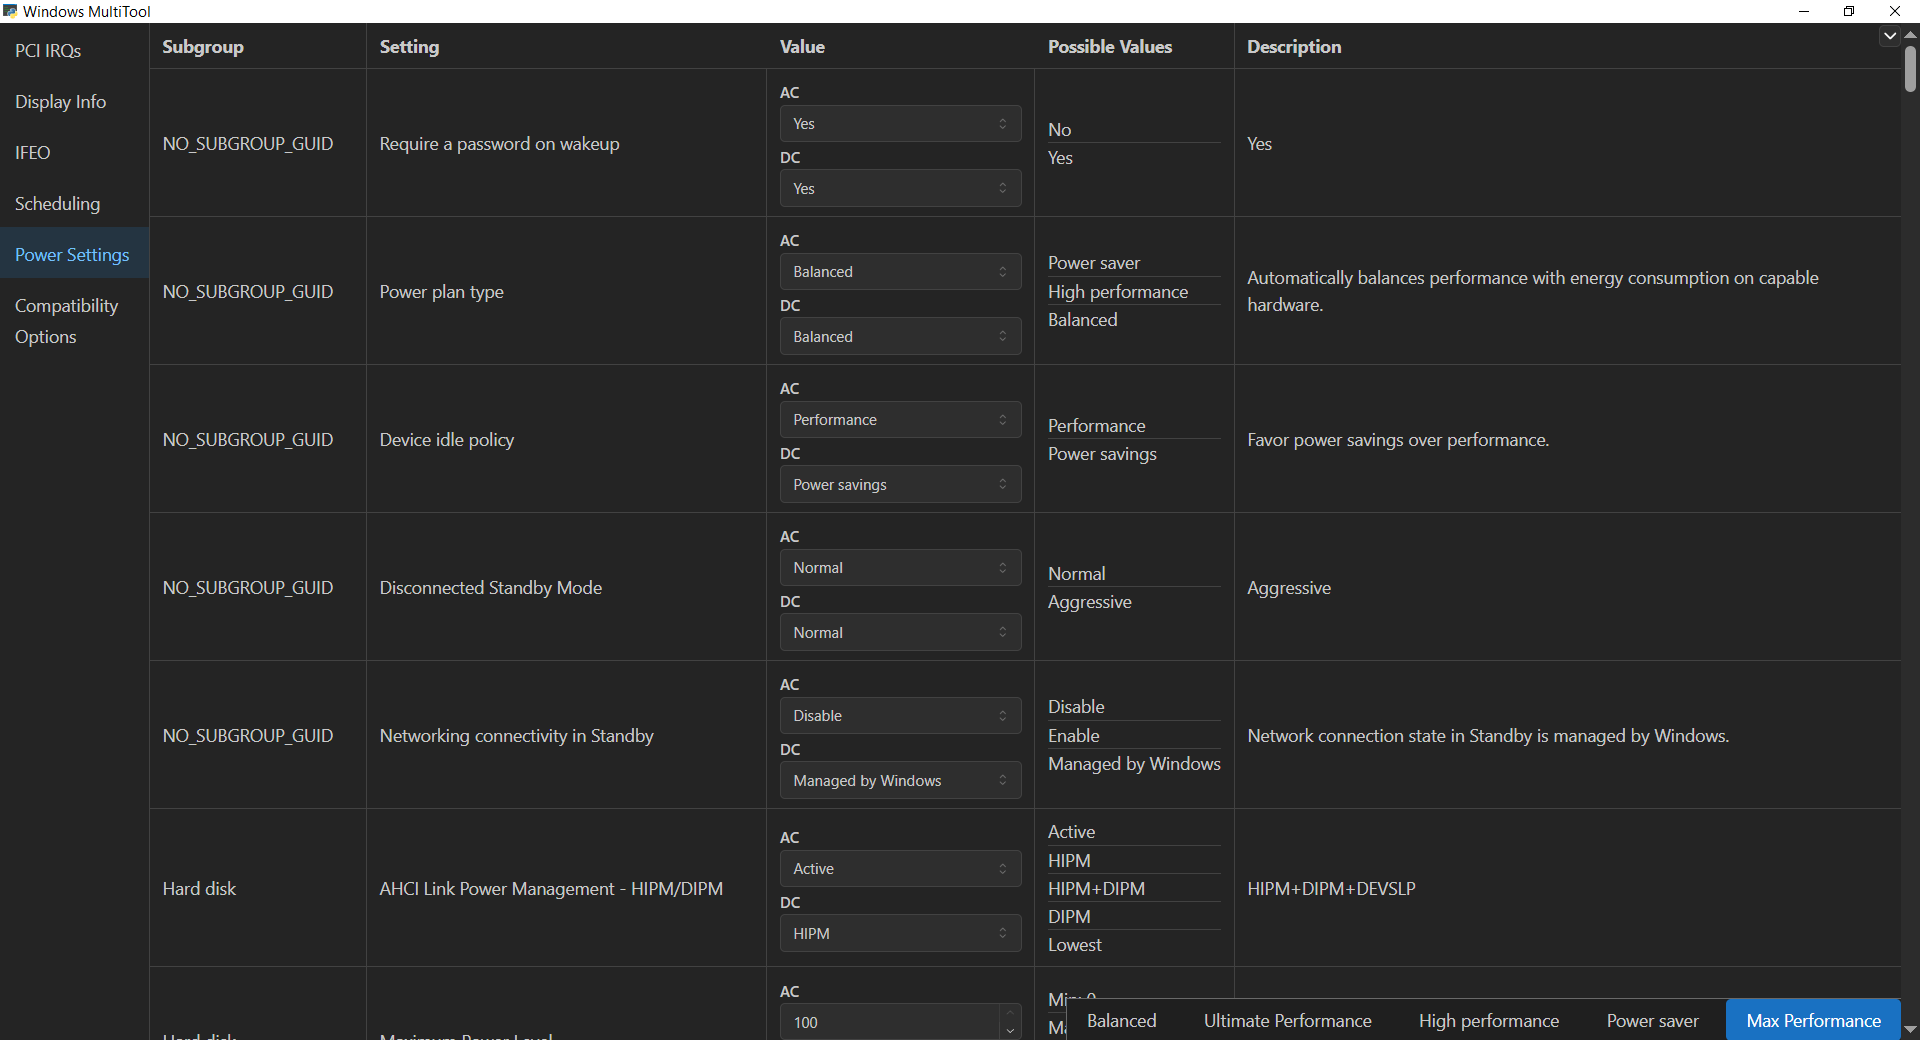
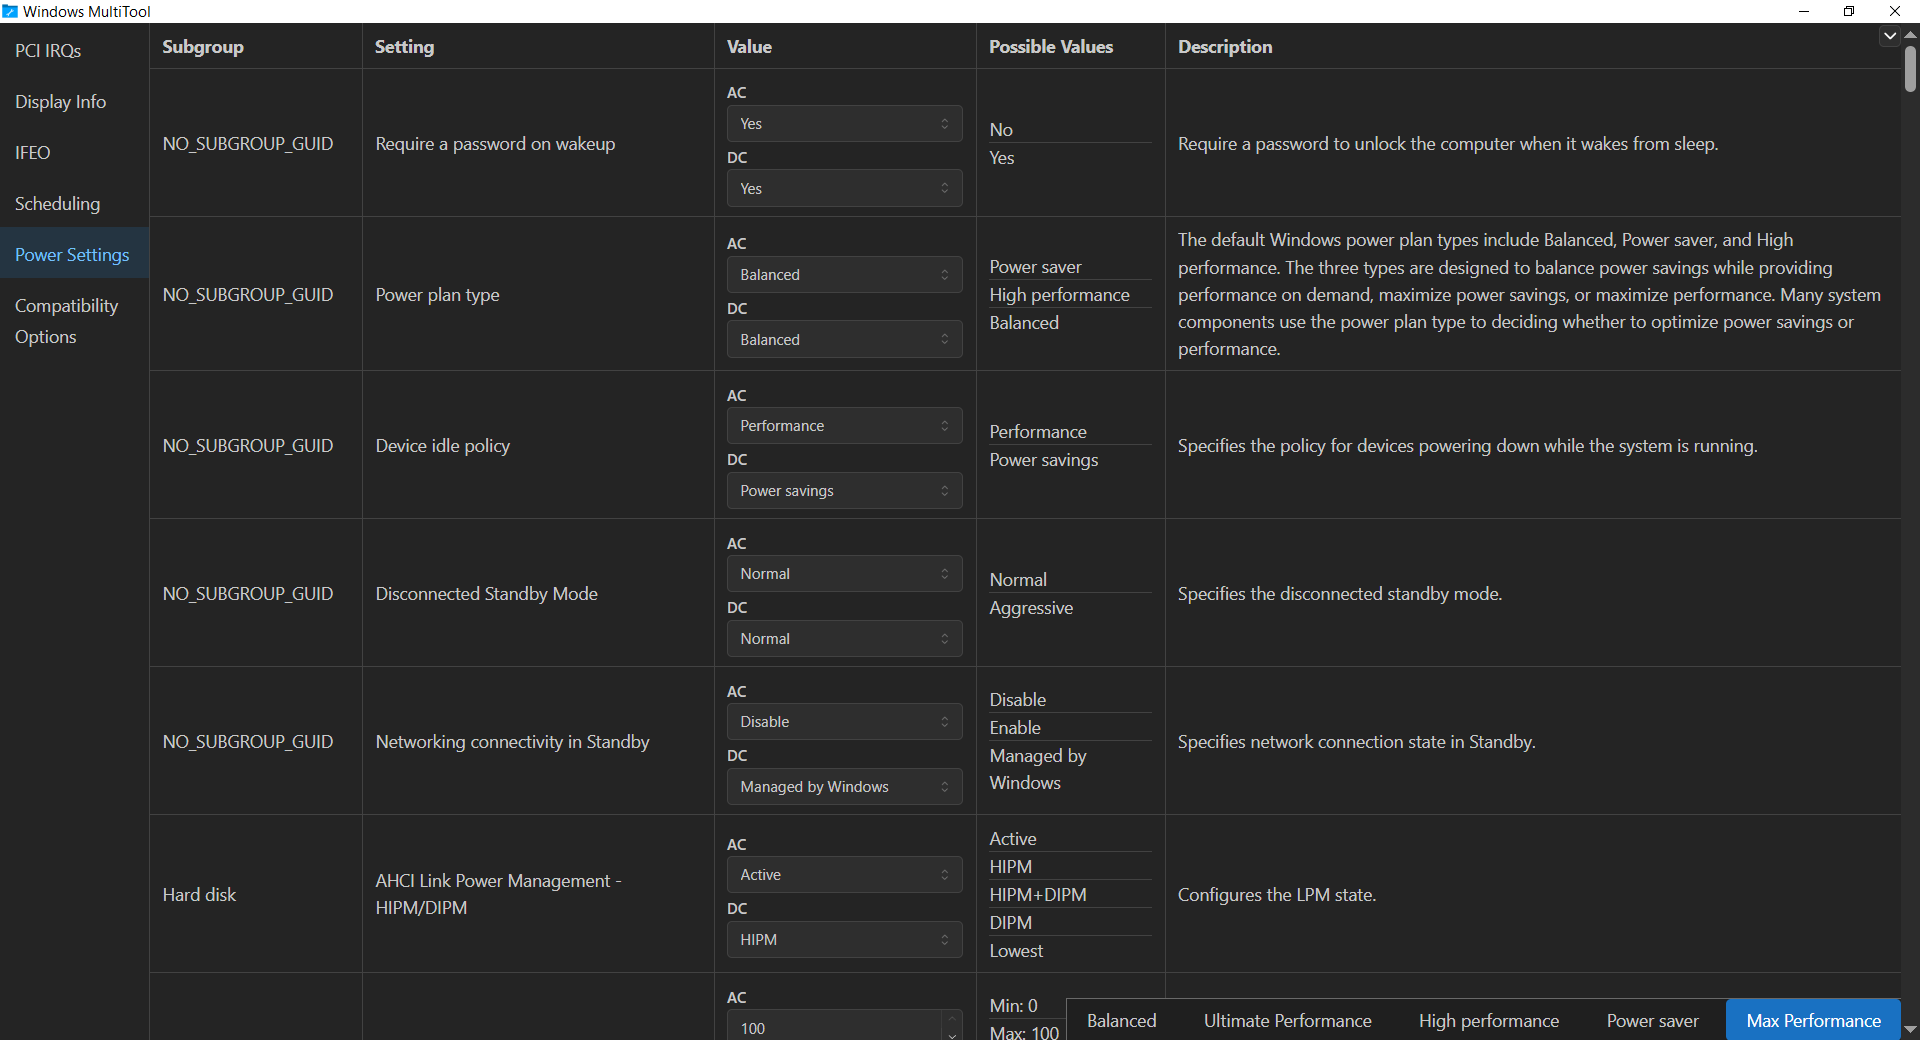
power settings: fix wrong descriptions

diff --git a/py/POWER_SETTINGS/__init__.py b/py/POWER_SETTINGS/__init__.py
@@ -441,13 +441,13 @@ def get_settings(
                 if result != 0:
                     raise WinError(result)
 
-                description_buffer = create_unicode_buffer(buffer_size.value)
+                option_description_buffer = create_unicode_buffer(buffer_size.value)
                 result = PowerReadPossibleDescription(
                     None,
                     byref(subgroup_guid) if subgroup_guid else None,
                     byref(setting_guid),
                     option_index,
-                    description_buffer,
+                    option_description_buffer,
                     byref(buffer_size),
                 )
                 if result != 0:
@@ -457,7 +457,7 @@ def get_settings(
                     {
                         "index": option_index,
                         "name": option_buffer.value,
-                        "description": description_buffer.value,
+                        "description": option_description_buffer.value,
                     }
                 )
 
